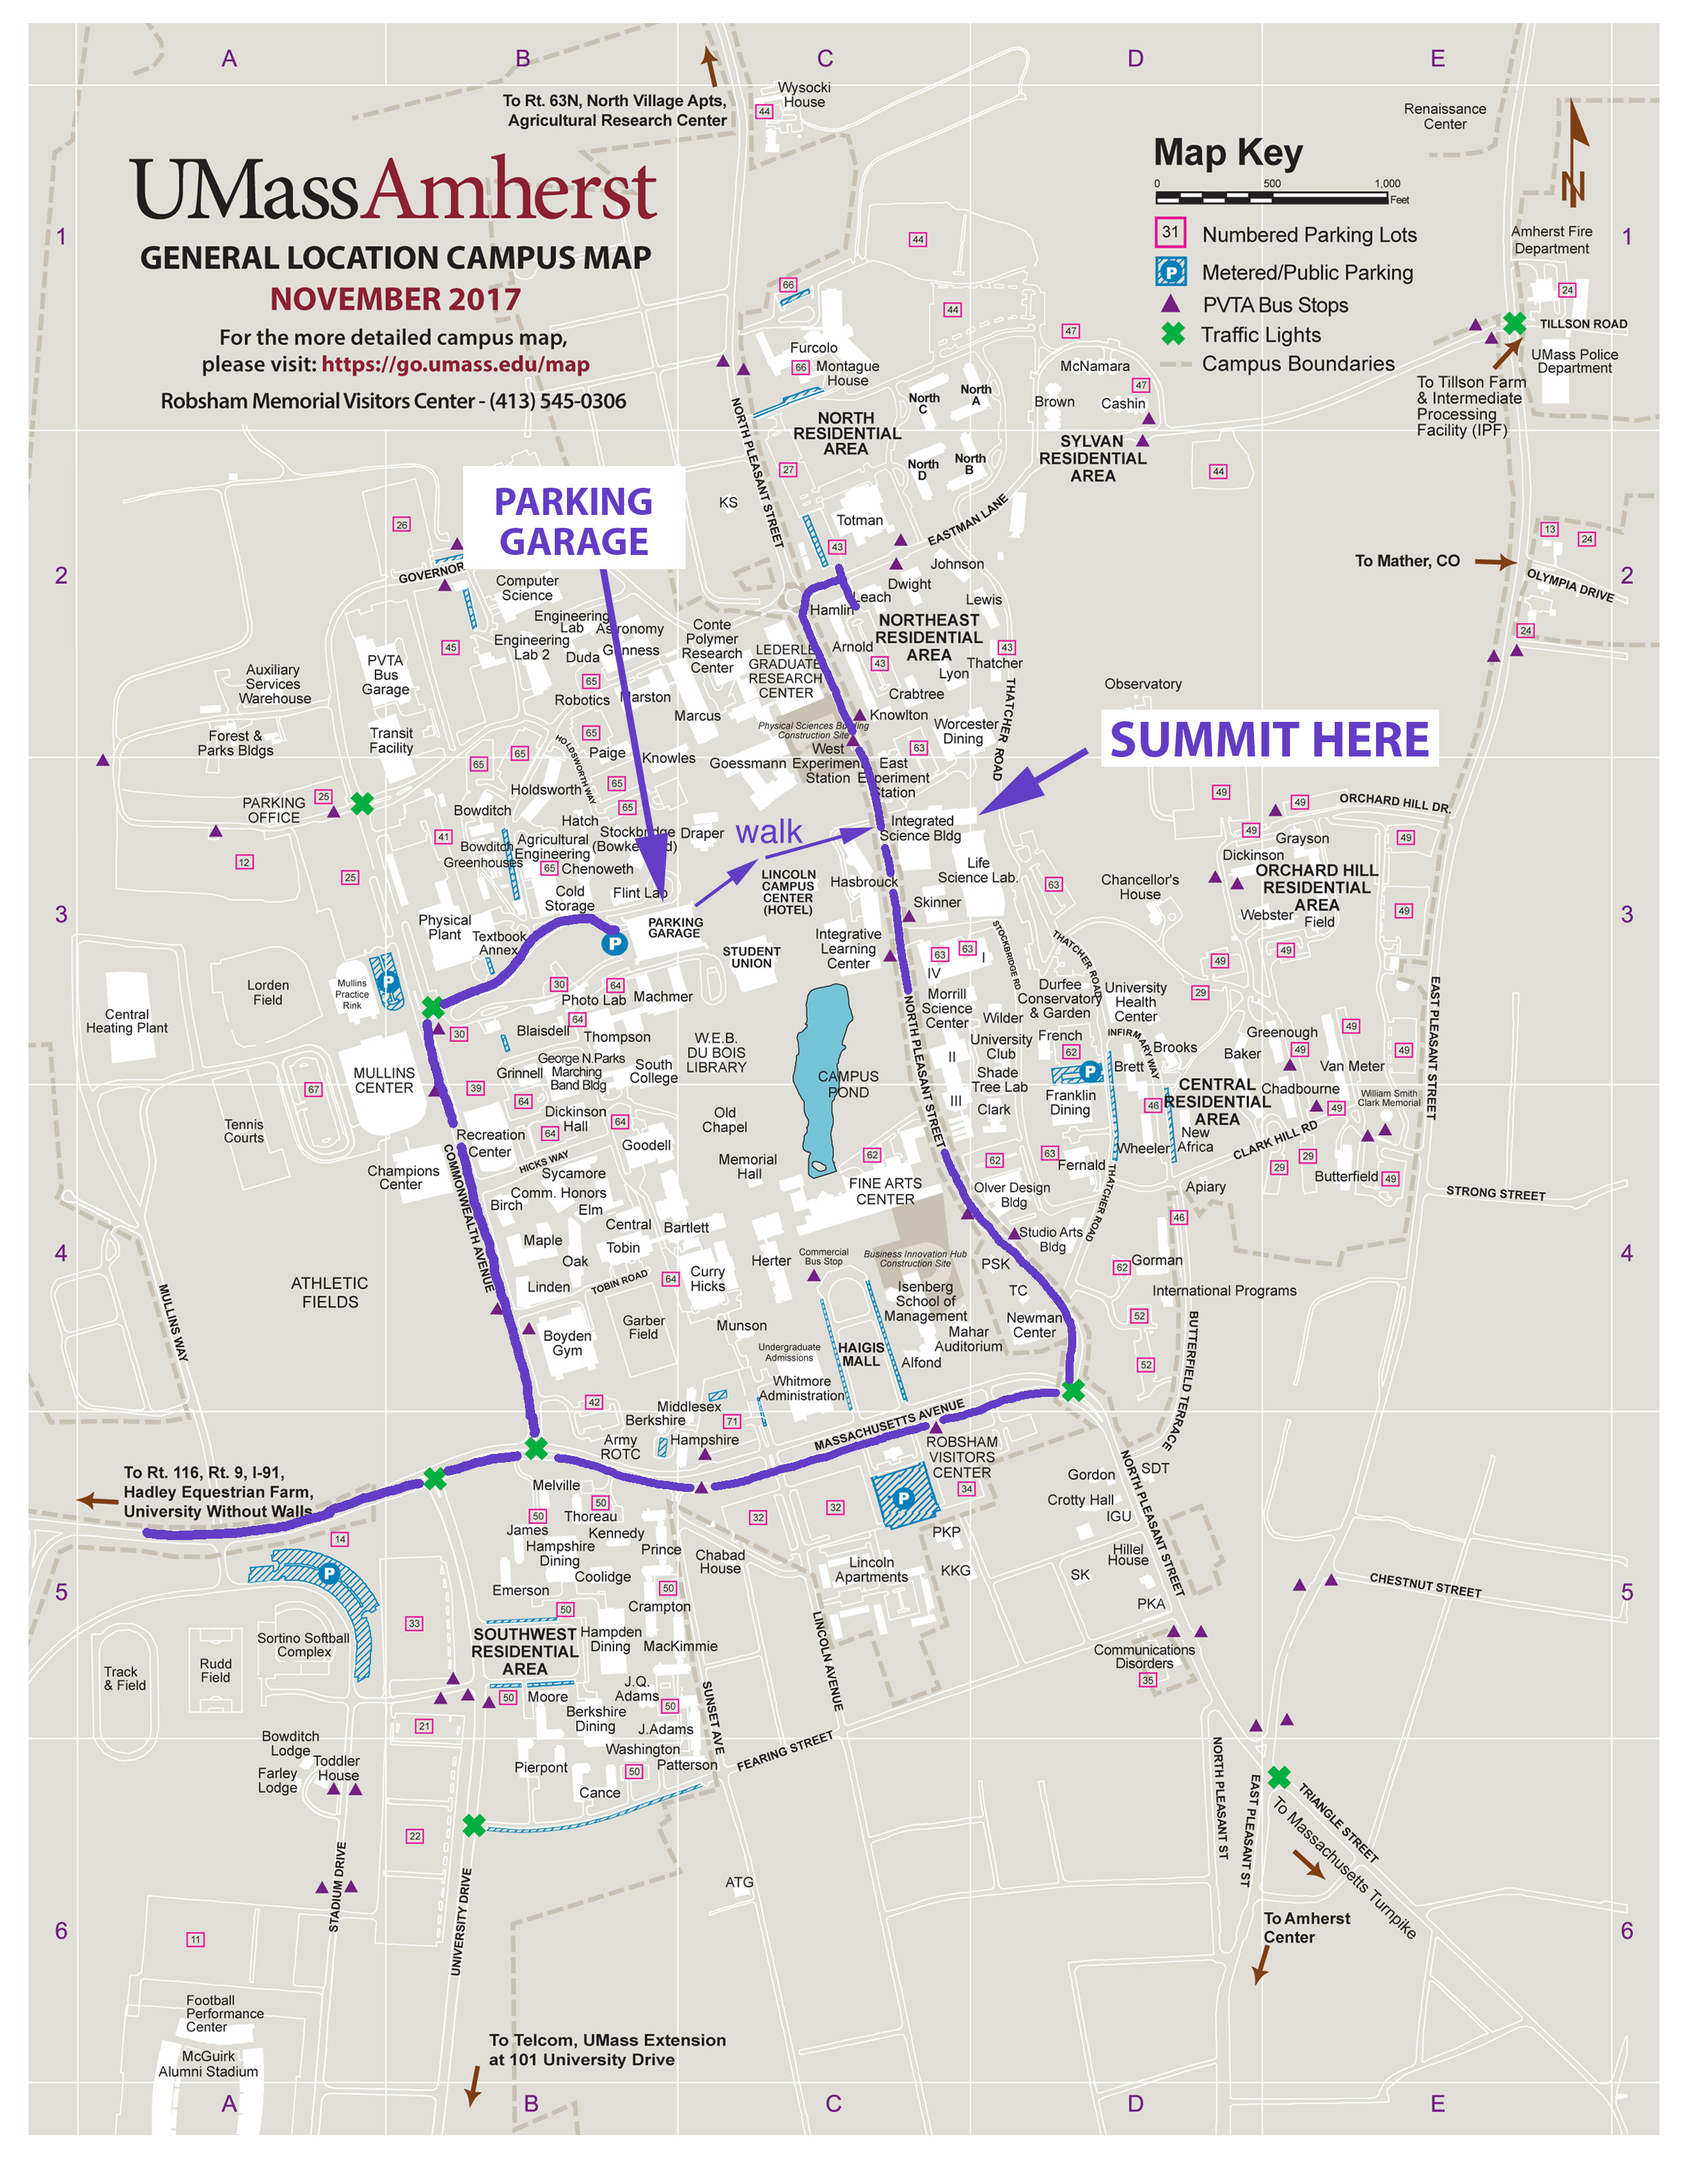
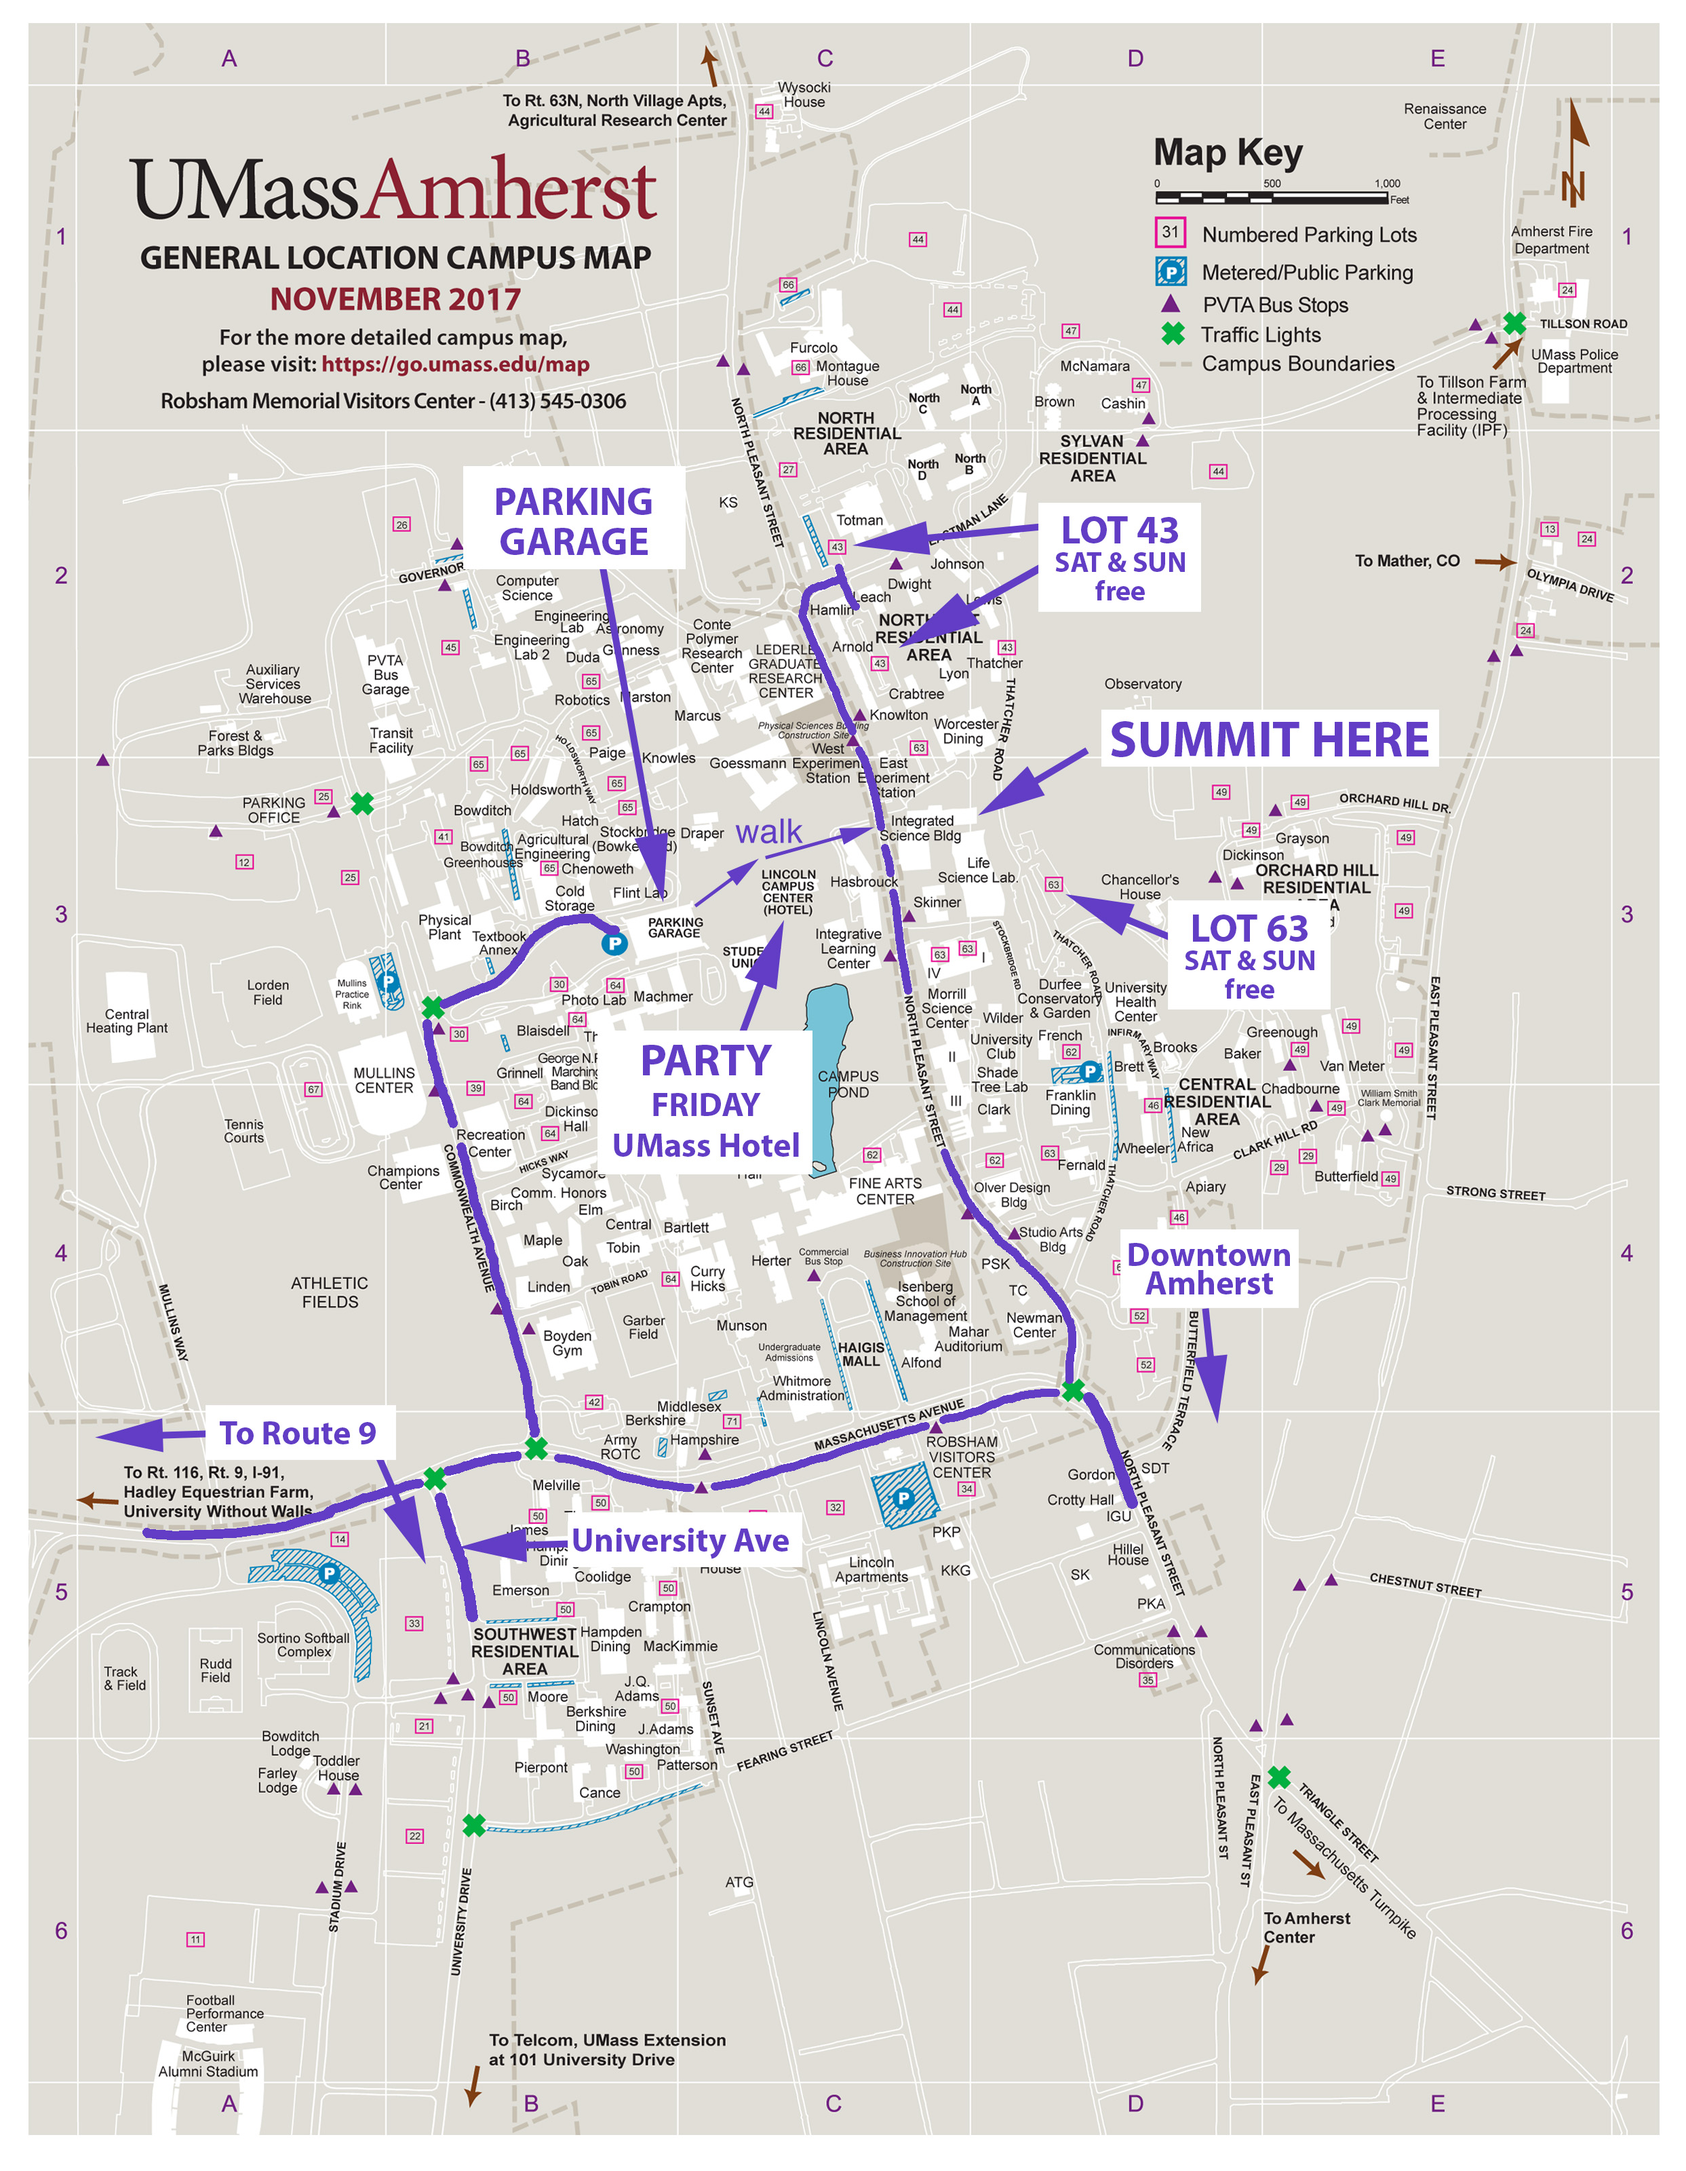
updated parking map

diff --git a/index.html b/index.html
@@ -250,7 +250,7 @@
         <h2 class="billboard__header--blue">Location</h2>
         <p>NERDS Summit is held in the <a href="https://www.cns.umass.edu/research/buildings-and-facilities/integrated-sciences-building" target="blank">Integrated Sciences Building</a> <br>at UMass Amherst in Amherst, Massachusetts.</p>
       
-        <p>Drive times: Logan (BOS) Airport: 2 hours, Bradley (BDL) Airport: 1 hour, New Haven: 1.5 hour, NYC: 3.5 hours. </p>
+        <p>Drive times: Logan (BOS) Airport: 2 hours, Bradley (BDL) Airport: 1 hour, New Haven: 1.5 hour, NYC: 3.5-4 hours. </p>
 
         <!-- 
         <p> Hotel UMass has reserved a block of rooms (Group Code: NED20C) with discounted room and parking rates.
@@ -263,8 +263,8 @@
 
         <img src="images/campus-map.jpg?version=2022-12-03" alt="UMass campus map" />
         <p><a href="/images/campus-map-large.jpg">Download full size map</a></p>  
-        <p>The most convenient parking is the <a href="https://goo.gl/maps/99enxmQRPeE2" target="blank">Campus Center Parking Garage</a> <br>at a cost of $1.75/hr. We will have passes at the registration table that cap that at $6.50 per day.</p>
-
+        <p>The most convenient parking is the <a href="https://goo.gl/maps/99enxmQRPeE2" target="blank">Campus Center Parking Garage</a> at a cost of $1.75/hr. <br>We will have passes at the registration table that cap that at $6.50 per day.</p>
+        <p>There is free parking on the weekends, see lots 43 and 63 on the map above [<a href="https://maps.umass.edu/parking/#?latitude=42.39163&longitude=-72.53272&zoom=15.0&rotation=0&basemap=topo" target="_blank">full UMass parking map</a>].</p>
         <p>There are <a href="https://www.google.com/maps/search/hotels+near+01002/@42.3606308,-72.5336356,12z/data=!3m1!4b1" target="blank">many hotels in the area</a> close by to UMass.</p>
         <p><strong>NOTE:</strong> At this time the <a href="https://hotelumass.com/" target="blank">Hotel UMass</a> is saying they are sold out. <br/> We are working on securing a set of hotel rooms for the conference. Stand by, more on that later.</p>
 
